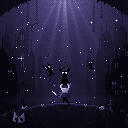
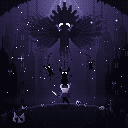
Add the voided Radiance as the source of the shades, and the lost Void Heart
A huge void-consumed Radiance eclipses the light behind the scene: crown of
spikes, tattered breathing moth wings, pulsing eyes shaped like her shades'.
Void drips from her and flows in threads into the shade and both siblings.
The Knight's cracked Void Heart lies on the mound, catching a glint.

Claude-Session: https://claude.ai/code/session_01JTynV4vLTguTEKhYtYDW26

diff --git a/void_vigil.py b/void_vigil.py
@@ -8,6 +8,11 @@ out of it, and two siblings drifting in purple light that falls from above.
 Their silhouettes are kept pixel for pixel; this program builds the world
 around them and brings it to life as a seamless loop.
 
+The story: the Knight has lost the Void Heart (it lies cracked on the mound)
+and with it control of the void.  The Radiance, consumed by that void, looms
+behind everything, eclipsing her own light; void drips from her tattered wings
+and frayed gown and pours down in threads into the shades.
+
 Everything is drawn on a fixed palette.  The background is painted as a value
 on a purple ramp and ordered-dithered onto it; figures are placed pixel by
 pixel from hand-drawn sprites.
@@ -118,6 +123,90 @@ def fog_field(t):
     low = np.exp(-((y - 100) / 7.0) ** 2) * 1.2        # bank around the mound
     mid = np.exp(-((y - 70) / 9.0) ** 2) * 0.7 * smooth(18, 40, np.abs(x - 64))
     return (low + mid) * n
+
+
+# --- the voided Radiance, looming behind everything ------------------------------
+# She is drawn as a density field: 1 where her void body fully hides the light,
+# fading toward the tattered tips of her wings and the hem of her gown, which
+# dissolve into the void that becomes the shades.
+HEAD = (64.0, 24.0)
+SHOULDER_L, SHOULDER_R = (59.0, 33.5), (69.0, 33.5)
+# (elevation in degrees from horizontal, length, half width) for each feather
+UPPER_WING = [(5, 44, 4.6), (15, 47, 5.2), (25, 45, 5.0), (35, 39, 4.6), (45, 31, 4.0)]
+LOWER_WING = [(-10, 35, 4.4), (-21, 33, 4.4), (-33, 29, 4.0), (-45, 23, 3.4)]
+CROWN = [(-80, 12), (-60, 14), (-40, 16), (-20, 18), (0, 20), (20, 18), (40, 16),
+         (60, 14), (80, 12)]   # spike angle from straight up, length
+HASH = np.modf(np.sin(XX * 12.9898 + YY * 78.233) * 43758.5453)[0] % 1.0
+
+
+def _feather(ox, oy, ang, length, half):
+    """Lens-shaped feather from (ox, oy) along ang (radians, screen coords).
+    Returns density and the fraction along the feather (0 base .. 1 tip)."""
+    dx, dy = math.cos(ang), math.sin(ang)
+    px, py = XX - ox, YY - oy
+    along = px * dx + py * dy
+    perp = np.abs(-px * dy + py * dx)
+    f = along / length
+    width = half * np.clip(1 - (2 * f - 1) ** 2, 0, 1) ** 0.6
+    inside = (f > 0) & (f < 1) & (perp <= width + 0.35)
+    vein = inside & (perp < 0.55) & (f > 0.25) & (f < 0.92)
+    return inside, np.clip(f, 0, 1), vein
+
+
+def radiance_field(t):
+    """Density D, her own value R, and her feather veins, for time t."""
+    D = np.zeros((H, W))
+    R = np.full((H, W), 2.0)
+    veins = np.zeros((H, W), dtype=bool)
+    breathe = 2.2 * math.sin(TAU * t)                      # wings rise and fall
+    for (sx, sy), side in ((SHOULDER_L, -1), (SHOULDER_R, 1)):
+        for wing, lift in ((UPPER_WING, 1.0), (LOWER_WING, 0.6)):
+            for k, (elev, length, half) in enumerate(wing):
+                e = math.radians(elev + breathe * lift)
+                ang = math.atan2(-math.sin(e), side * math.cos(e))
+                inside, f, vein = _feather(sx, sy, ang, length, half)
+                # tattered: the outer part of each feather is eaten by holes
+                keep = HASH > (f - 0.62) * 2.2 + 0.03 * k
+                dens = np.where(inside & keep, 1.0 - 0.38 * f ** 2, 0)
+                R = np.where(dens > D, 1.2 + 2.0 * f ** 1.3, R)
+                D = np.maximum(D, dens)
+                veins |= vein & keep
+    hx, hy = HEAD
+    # crown of spikes around the head
+    for a, length in CROWN:
+        ang = math.radians(a - 90)
+        inside, f, _ = _feather(hx + 3 * math.cos(ang), hy + 3 * math.sin(ang),
+                                ang, length, 1.9)
+        D = np.maximum(D, np.where(inside, 1.0, 0))
+    # head, neck and body
+    head = ((XX - hx) / 6.6) ** 2 + ((YY - hy) / 6.2) ** 2 <= 1
+    D = np.maximum(D, head * 1.0)
+    for y0, y1, w0, w1 in ((27, 34, 3.4, 5.2), (34, 45, 5.2, 4.6), (45, 62, 4.6, 7.5)):
+        f = np.clip((YY - y0) / (y1 - y0), 0, 1)
+        half = w0 + (w1 - w0) * f
+        body = (YY >= y0) & (YY < y1) & (np.abs(XX - hx) <= half)
+        if y0 == 45:
+            # the gown frays into strands of void
+            strands = 0.5 + 0.5 * np.sin(XX * 1.9 + 0.7 * np.sin(YY * 0.4 + TAU * t))
+            body &= (HASH * 0.6 + strands * 0.6) > (f * 1.15)
+        D = np.maximum(D, body * (1.0 - 0.35 * f * (y0 == 45)))
+    R = np.where(head | ((YY < 46) & (np.abs(XX - hx) < 5)), 1.6, R)
+    return D, R, veins
+
+
+def corona(t):
+    """The light she is eclipsing."""
+    d = np.hypot(XX - HEAD[0], (YY - HEAD[1]) * 1.1)
+    return (2.6 + 0.25 * math.sin(TAU * 2 * t)) * np.exp(-(d / 19.0) ** 2)
+
+
+# her eyes share the droop of her shades' eyes, larger
+RAD_EYES = [(x, y) for x0, y0 in ((60, 23),) for x, y in
+            ((x0, y0), (x0 + 1, y0), (x0 + 2, y0), (x0 - 1, y0 + 1), (x0, y0 + 1),
+             (x0 + 1, y0 + 1), (x0 + 2, y0 + 1), (x0 - 1, y0 + 2), (x0, y0 + 2),
+             (x0 - 1, y0 + 3))]
+RAD_EYES += [(128 - x, y) for x, y in RAD_EYES]
+HER_REACH = np.array([1.0, 1.0, 0.0, 0.0, 0.0, 0.0, 0.0])   # behind the near city
 
 
 def spire_top(x, xs, peak, width):
@@ -423,6 +512,17 @@ BIG_SHELL = [
 ]
 
 
+# The Void Heart the Knight has lost: cracked, lying on the mound.
+VOID_HEART_KEY = {'a': (176, 172, 214), 'b': (110, 104, 150), 'K': VOID, 'k': (34, 26, 56)}
+VOID_HEART = [
+    ".a.b.",
+    "aKaKb",
+    "aKkK.",
+    ".bKb.",
+    "..b..",
+]
+
+
 def bob(t, phase, amp=1.2):
     return int(round(amp * math.sin(TAU * (t + phase))))
 
@@ -498,8 +598,11 @@ def draw_ground_detail(cv, gtop):
     for x, dy, c in ((30, 3, RAMP[5]), (31, 3, RAMP[4]), (95, 5, RAMP[5]),
                      (46, 2, RAMP[4]), (18, 6, RAMP[3]), (110, 5, RAMP[3])):
         cv.put(x, gtop[x] + dy, c)
+    # the lost Void Heart, cracked, a few steps from the Knight
+    cv.sprite(76, gtop[78] - 3, VOID_HEART, VOID_HEART_KEY)
+    cv.put(80, gtop[80], (70, 64, 100))            # a chip broken off it
     # small pale flowers near the Knight's feet
-    for x, c in ((52, MOTE), (54, RAMP[12]), (76, MOTE), (79, RAMP[12])):
+    for x, c in ((52, MOTE), (54, RAMP[12]), (86, RAMP[12])):
         g = gtop[x]
         cv.put(x, g - 1, RAMP[3])
         cv.put(x, g - 2, c)
@@ -545,13 +648,22 @@ MOTES = [dict(x=_rm.uniform(2, 126), y=_rm.uniform(-4, 92), fall=_rm.uniform(10,
 SPARKLES = [(38, 30, 0.0), (91, 22, 0.4), (77, 48, 0.7), (21, 58, 0.2),
             (106, 60, 0.55), (52, 42, 0.85)]
 _rv = random.Random(21)
-RISING = []   # void specks lifting off the shade's horns and head, and the siblings
-for x0, y0, n, spread in ((64.5, 68, 8, 7.0), (46, 63, 4, 3), (90, 59, 3, 2.5)):
-    for _ in range(n):
-        RISING.append(dict(x=x0 + _rv.gauss(0, spread), y=y0 + _rv.uniform(-2, 3),
-                           rise=_rv.uniform(12, 22), ph=_rv.random(),
-                           sway=_rv.uniform(0.3, 1.2), ph2=_rv.random(),
-                           sib=(x0 != 64.5) * (1 if x0 < 64 else 2)))
+DRIPS = []    # void dripping from the Radiance's wings and frayed gown
+for x0, y0 in ((36, 44), (42, 47), (49, 51), (55, 56), (60, 60), (68, 60), (73, 56),
+               (79, 51), (86, 47), (92, 44), (30, 40), (98, 40), (58, 58), (70, 58)):
+    DRIPS.append(dict(x=x0 + _rv.uniform(-1.5, 1.5), y=y0, fall=_rv.uniform(8, 16),
+                      ph=_rv.random(), sway=_rv.uniform(0.2, 0.8), ph2=_rv.random()))
+# threads of void pouring from her into the shade and the siblings
+THREADS = [((64.0, 60.0), (64.5, 63.0), (64.0, 66.0), 0.0),
+           ((52.0, 52.0), (47.0, 56.0), (47.5, 61.0), 1),
+           ((77.0, 51.0), (86.0, 53.0), (90.5, 57.0), 2)]
+
+
+def _bezier(p0, p1, p2, u):
+    a = (1 - u) ** 2
+    b = 2 * (1 - u) * u
+    c = u ** 2
+    return a * p0[0] + b * p1[0] + c * p2[0], a * p0[1] + b * p1[1] + c * p2[1]
 
 
 def draw_motes(cv, t):
@@ -584,22 +696,34 @@ def draw_motes(cv, t):
                     cv.put(x + dx, y + dy, RAMP[10])
 
 
-def draw_rising(cv, t):
-    for s in RISING:
-        u = (t + s['ph']) % 1.0
-        dy = 0
-        if s['sib'] == 1:
-            dy = bob(t, 0.0)
-        elif s['sib'] == 2:
-            dy = bob(t, 0.37)
-        x = s['x'] + s['sway'] * math.sin(TAU * (u + s['ph2']))
-        y = s['y'] + dy - s['rise'] * u
+def draw_drips(cv, t):
+    for d in DRIPS:
+        u = (t + d['ph']) % 1.0
+        x = d['x'] + d['sway'] * math.sin(TAU * (u + d['ph2']))
+        y = d['y'] + d['fall'] * u * u
         xi, yi = int(round(x)), int(round(y))
-        if not (0 <= xi < W and 0 <= yi < H) or cv.void[yi, xi]:
+        if not (0 <= xi < W and 0 <= yi < H) or cv.void[yi, xi] or u < 0.06:
             continue
-        if u < 0.08:
-            continue                      # still inside the body
-        cv.put(xi, yi, VOID if u < 0.6 else ((24, 18, 40) if u < 0.82 else (40, 33, 64)))
+        cv.put(xi, yi, VOID if u < 0.55 else ((24, 18, 40) if u < 0.8 else (40, 33, 64)))
+
+
+def draw_threads(cv, t):
+    """Thin streams of void, with beads of it flowing down into her shades."""
+    for p0, p1, p2, who in THREADS:
+        dy = bob(t, 0.0) if who == 1 else (bob(t, 0.37) if who == 2 else 0)
+        p2 = (p2[0], p2[1] + dy)
+        n = 28
+        for k in range(n + 1):
+            u = k / n
+            x, y = _bezier(p0, p1, p2, u)
+            xi, yi = int(round(x)), int(round(y))
+            if 0 <= xi < W and 0 <= yi < H and not cv.void[yi, xi] \
+                    and (xi * 7 + yi * 3) % 5 != 0:
+                cv.put(xi, yi, (30, 23, 50))
+        for b in range(3):                  # beads travelling down
+            u = (t * 2 + b / 3 + who * 0.13) % 1.0
+            x, y = _bezier(p0, p1, p2, u)
+            cv.put(x, y, VOID)
 
 
 # --- one frame --------------------------------------------------------------------
@@ -611,18 +735,50 @@ def render(t):
     if WORLD is None:
         WORLD = build_world()
     val, layer, gtop = WORLD
-    v = val + beam_field(t) * BEAM_REACH[layer] + fog_field(t) * FOG_REACH[layer]
+    beams = beam_field(t) * BEAM_REACH[layer]
+    # the sky behind her: her eclipsed light, and the beams escaping around her
+    v = val + corona(t) * HER_REACH[layer] + beams
+    D, R, veins = radiance_field(t)
+    D = D * HER_REACH[layer]
+    v = v * (1 - D) + (R + 0.2 * beams) * D
+    v = np.where(veins & (D > 0.3), v + 1.5, v)              # feather veins
+    # her outline catches the light she is hiding
+    solid = D > 0.55
+    around = (np.roll(solid, 1, 0) & np.roll(solid, -1, 0)
+              & np.roll(solid, 1, 1) & np.roll(solid, -1, 1))
+    top_edge = solid & ~np.roll(solid, 1, 0)
+    edge = np.where(YY < 33, solid & ~around, top_edge)   # crown: all round
+    dist = np.hypot(XX - HEAD[0], YY - HEAD[1])
+    glow = 2.6 * np.exp(-(dist / 24.0) ** 2) + 1.4 * np.exp(-(dist / 60.0) ** 2)
+    v = np.where(edge, v + glow, v)
+    v = v + fog_field(t) * FOG_REACH[layer]
     cv = Canvas(quantize(v))
+    # her eyes, pulsing - the same shape as her shades' eyes
+    pulse = 0.5 + 0.5 * math.sin(TAU * t)
+    for x, y in RAD_EYES:
+        cv.put(x, y, (236, 236, 250) if pulse > 0.45 else (194, 192, 226))
+    if pulse > 0.75:
+        for x, y in ((58, 24), (58, 25), (58, 26), (70, 24), (70, 25), (70, 26)):
+            cv.put(x, y, RAMP[7])
     draw_distant_siblings(cv, t)
+    draw_threads(cv, t)
     draw_shade(cv)
     draw_siblings(cv, t)
     cv.rim_light((30, 55, 100, 90))
     draw_motes(cv, t)
-    draw_rising(cv, t)
+    draw_drips(cv, t)
     for x, y, c in cv.overlay:
         cv.put(x, y, c)
     draw_knight(cv)
     draw_ground_detail(cv, gtop)
+    # a glint passing over the lost Void Heart
+    g = (t * 2) % 1.0
+    if g < 0.18:
+        gx, gy = 77, gtop[78] - 3
+        cv.put(gx, gy, MOTE_HI)
+        if g < 0.1:
+            for dx, dy in ((1, 0), (-1, 0), (0, -1)):
+                cv.put(gx + dx, gy + dy, RAMP[12])
     draw_foreground(cv)
     return Image.fromarray(cv.img, 'RGB')
 
